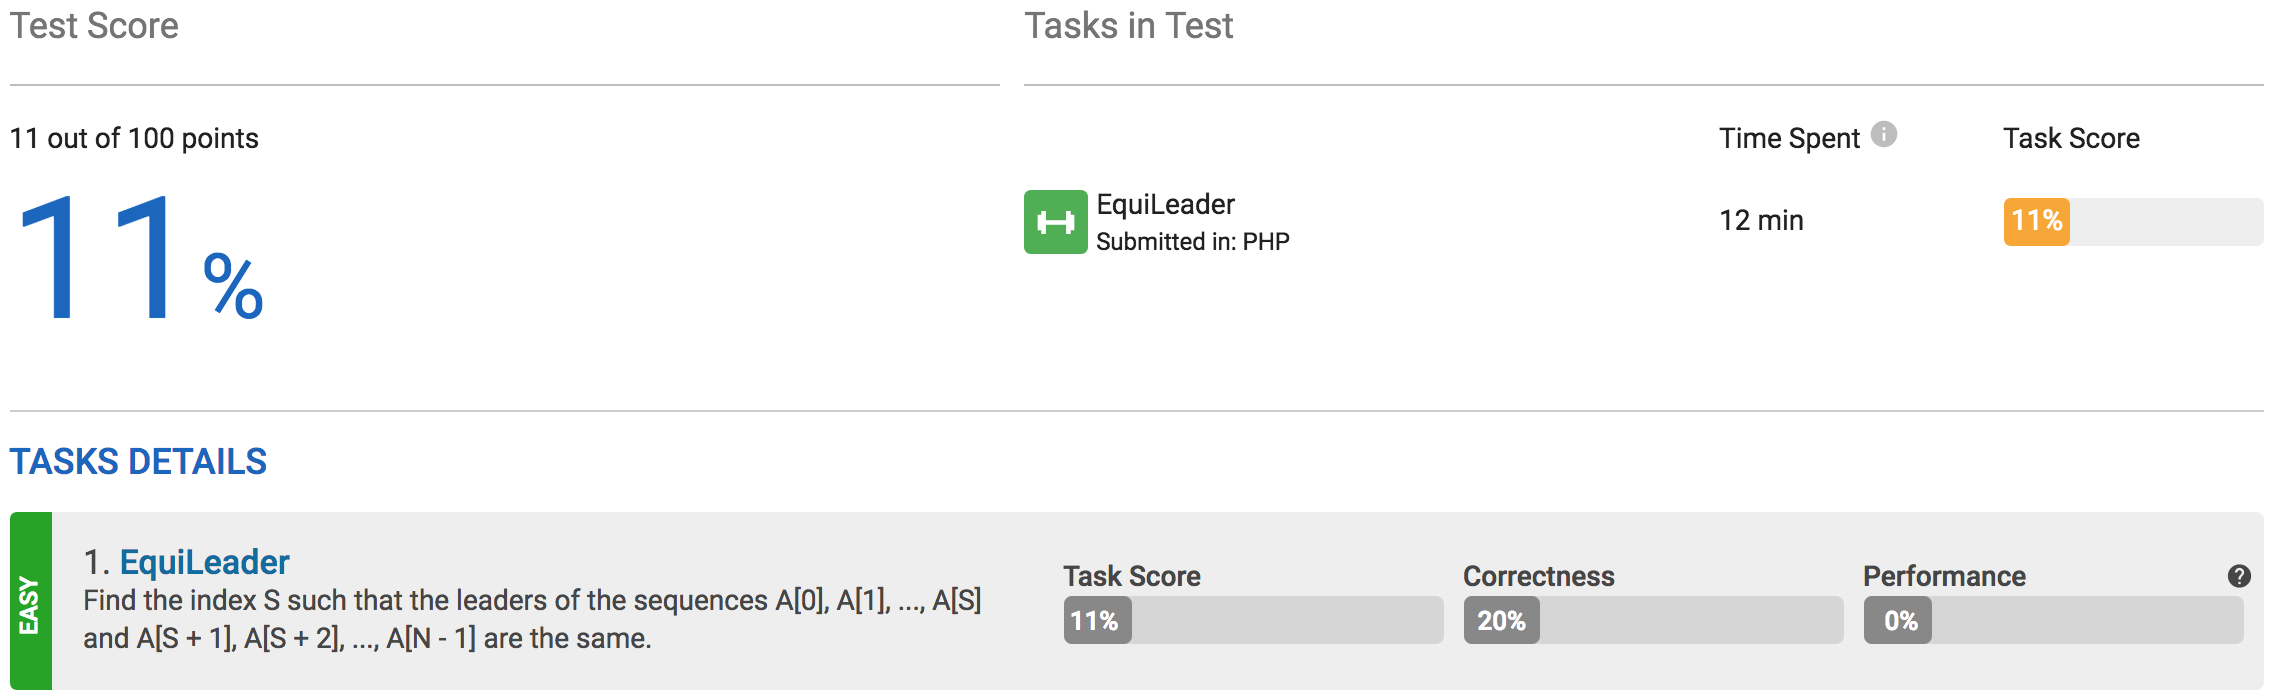
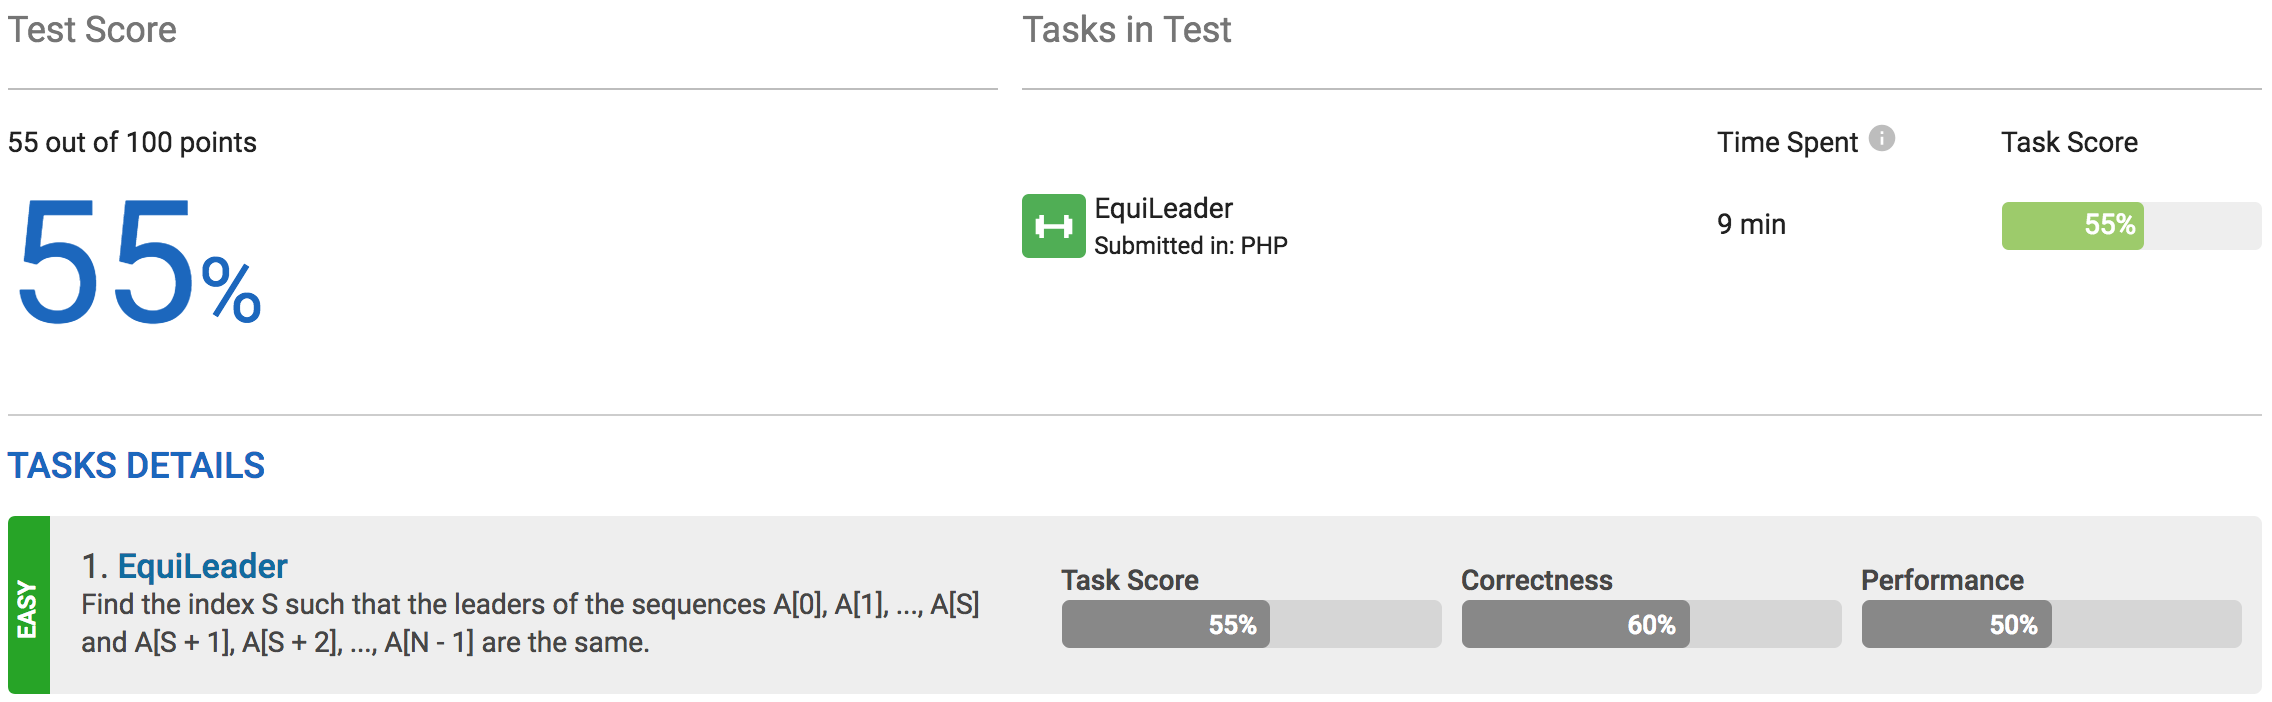
Result_3 for EquiLeader of Lesson_8_Leader.

diff --git a/Lessons/8_Leader/Tasks_EquiLeader/Answer.php b/Lessons/8_Leader/Tasks_EquiLeader/Answer.php
@@ -59,7 +59,9 @@ function solution($A) {
 
             $checker = $tmpArray[$target][1][$j][0];
 
-            if ($checker % 2 === 1 && $A[$checker + 1] !== $target)
+            if ($checker % 2 === 1 &&
+                $checker + 1 < $arrLength &&
+                $A[$checker + 1] !== $target)
             {
                 $result++;
             }
